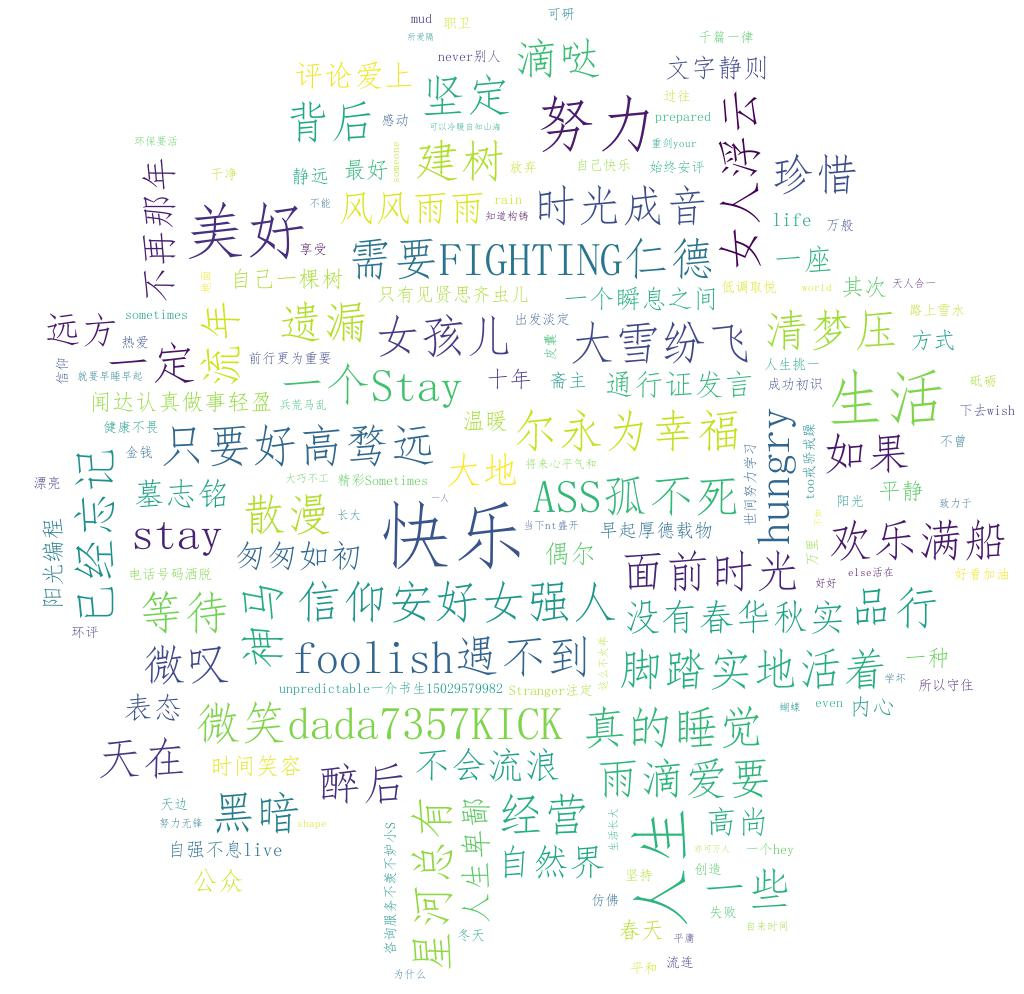
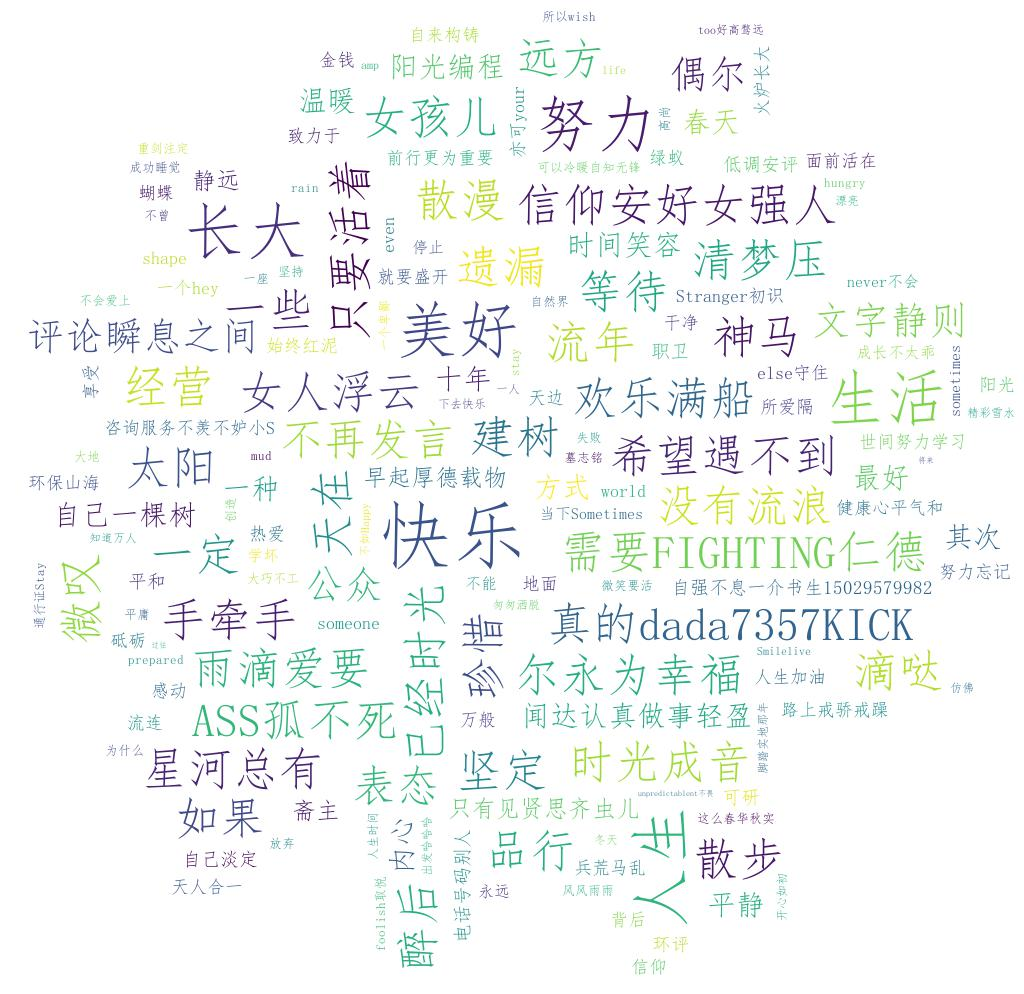
Update Scripts

Changed region(s): [[0.0312, 0.0, 1.0, 0.998]]

diff --git a/main.py b/main.py
@@ -10,6 +10,7 @@ import jieba
 from jieba import analyse
 import itchat
 import base64
+from snownlp import SnowNLP
 import requests
 import sys
 from collections import Counter
@@ -111,8 +112,8 @@ def analyseHeadImage(frineds):
         background_color="white",
         max_words=1200,
         mask=back_coloring, 
-        max_font_size=75,
-        random_state=45,
+        max_font_size=85,
+        random_state=75,
         width=800, 
         height=480, 
         margin=15
@@ -125,16 +126,21 @@ def analyseHeadImage(frineds):
 
 def analyseSignature(friends):
     signatures = ''
+    emotions = []
     pattern = re.compile("1f\d.+")
     for friend in friends:
         signature = friend['Signature']
         if(signature != None):
             signature = signature.strip().replace('span', '').replace('class', '').replace('emoji', '')
             signature = re.sub(r'1f(\d.+)','',signature)
-            signatures += ' '.join(jieba.analyse.extract_tags(signature,5))
+            if(len(signature)>0):
+                nlp = SnowNLP(signature)
+                emotions.append(nlp.sentiments)
+                signatures += ' '.join(jieba.analyse.extract_tags(signature,5))
     with open('signatures.txt','wt',encoding='utf-8') as file:
-         file.write(signatures);
+         file.write(signatures)
 
+    # Sinature WordCloud
     back_coloring = np.array(Image.open('flower.jpg'))
     wordcloud = WordCloud(
         font_path='simfang.ttf',
@@ -153,12 +159,28 @@ def analyseSignature(friends):
     plt.axis("off")
     plt.show()
     wordcloud.to_file('signatures.jpg')
+    
+    # Signature Emotional Judgment
+    count_good = len(list(filter(lambda x:x>0.66,emotions)))
+    count_normal = len(list(filter(lambda x:x>=0.33 and x<=0.66,emotions)))
+    count_bad = len(list(filter(lambda x:x<0.33,emotions)))
+    labels = [u'负面消极',u'中性',u'正面积极']
+    values = (count_bad,count_normal,count_good)
+    plt.rcParams['font.sans-serif'] = ['simHei'] 
+    plt.rcParams['axes.unicode_minus'] = False
+    plt.xlabel(u'情感判断')
+    plt.ylabel(u'频数')
+    plt.xticks(range(3),labels)
+    plt.legend(loc='upper right',)
+    plt.bar(range(3), values, color = 'rgb')
+    plt.title(u'%s的微信好友签名信息情感分析' % friends[0]['NickName'])
+    plt.show()
 
 # login wechat and extract friends
 itchat.auto_login(hotReload = True)
 friends = itchat.get_friends(update = True)
-analyseSex(friends)
-#analyseSignature(friends)
-analyseHeadImage(friends)
+#analyseSex(friends)
+analyseSignature(friends)
+#analyseHeadImage(friends)
 #analyseLocation(friends)
 
